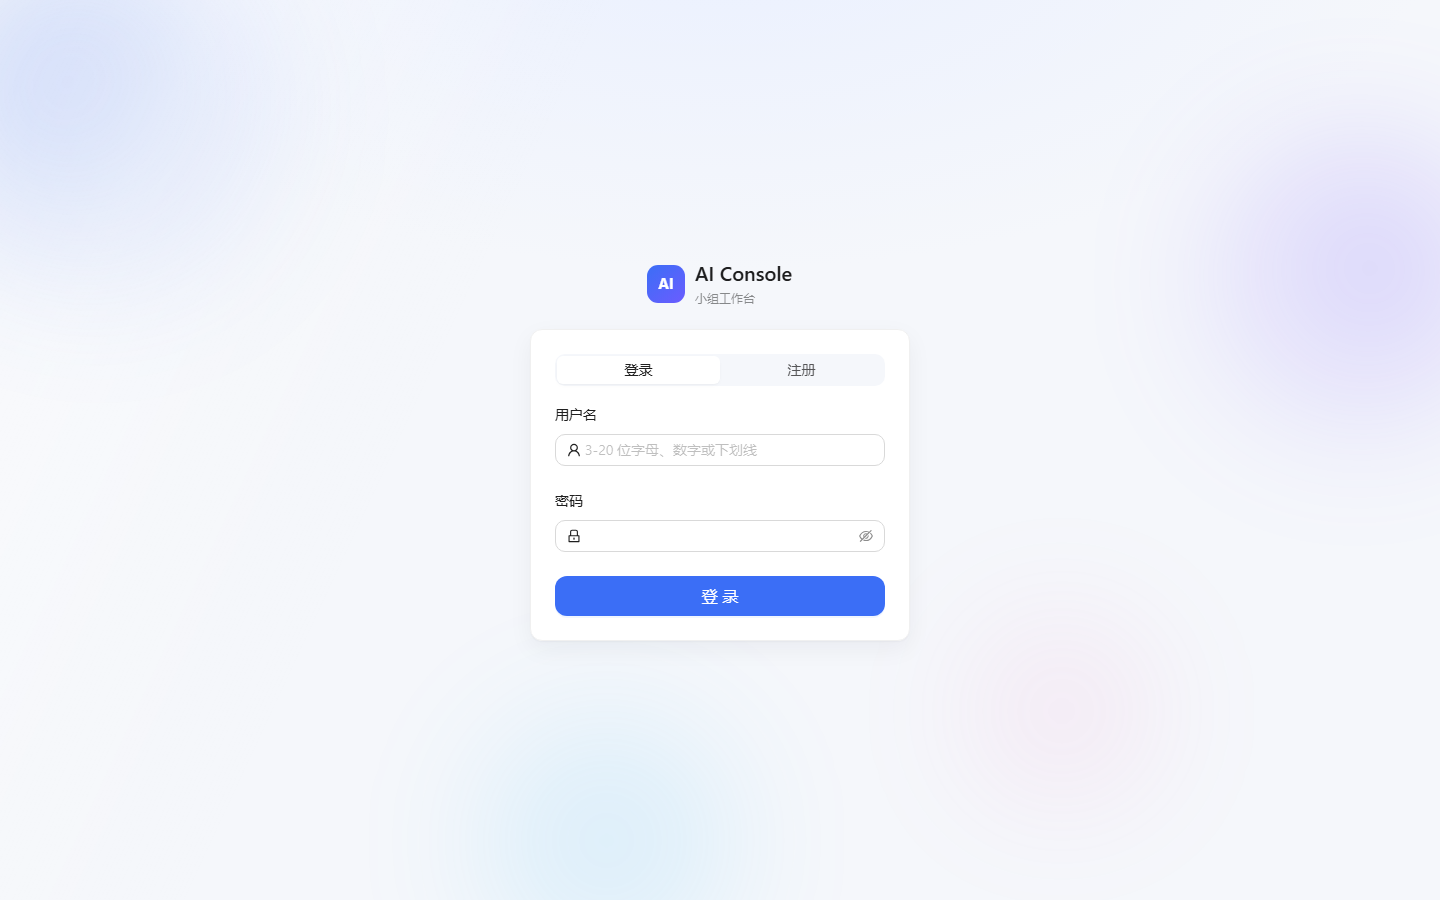
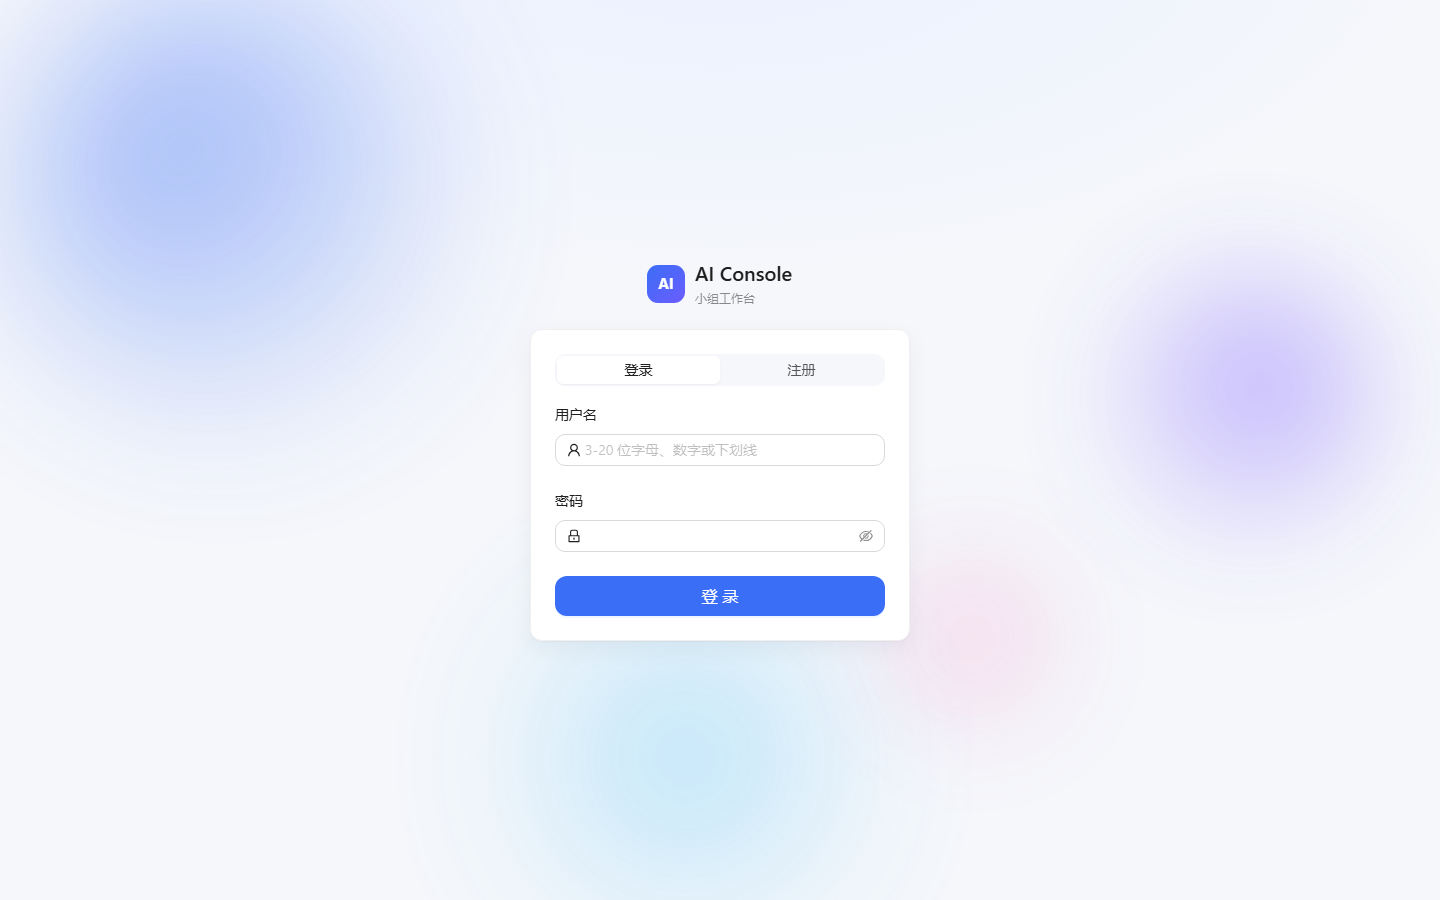
tune: 极光背景提速并加强
- 周期 26~38s → 9~13s，位移 40~60px → 100~140px
- 流光 18s → 7s
- 不透明度 0.5 → 0.68，四个色块的色彩浓度同步提高
- 移动端保留 0.55，避免小屏上过艳

Changed region(s): [[0.0312, 0.0, 0.2812, 0.4356], [0.7812, 0.3422, 0.9375, 0.56], [0.4375, 0.7156, 0.5625, 0.9022]]

diff --git a/src/styles/global.css b/src/styles/global.css
@@ -2494,7 +2494,7 @@ html[data-theme='dark'] .alert-banner {
   position: absolute;
   border-radius: 50%;
   filter: blur(64px);
-  opacity: 0.5;
+  opacity: 0.68;
   will-change: transform;
 }
 
@@ -2503,8 +2503,8 @@ html[data-theme='dark'] .alert-banner {
   height: 340px;
   left: -80px;
   top: -60px;
-  background: radial-gradient(circle at 30% 30%, rgba(59, 110, 246, 0.55), rgba(59, 110, 246, 0));
-  animation: auroraDrift1 30s ease-in-out infinite;
+  background: radial-gradient(circle at 30% 30%, rgba(59, 110, 246, 0.72), rgba(59, 110, 246, 0));
+  animation: auroraDrift1 11s ease-in-out infinite;
 }
 
 .aurora-2 {
@@ -2512,8 +2512,8 @@ html[data-theme='dark'] .alert-banner {
   height: 300px;
   right: -70px;
   top: 14%;
-  background: radial-gradient(circle at 60% 40%, rgba(124, 92, 255, 0.5), rgba(124, 92, 255, 0));
-  animation: auroraDrift2 38s ease-in-out infinite;
+  background: radial-gradient(circle at 60% 40%, rgba(124, 92, 255, 0.66), rgba(124, 92, 255, 0));
+  animation: auroraDrift2 13s ease-in-out infinite;
 }
 
 .aurora-3 {
@@ -2521,8 +2521,8 @@ html[data-theme='dark'] .alert-banner {
   height: 260px;
   left: 32%;
   bottom: -90px;
-  background: radial-gradient(circle at 50% 50%, rgba(56, 189, 248, 0.4), rgba(56, 189, 248, 0));
-  animation: auroraDrift3 26s ease-in-out infinite;
+  background: radial-gradient(circle at 50% 50%, rgba(56, 189, 248, 0.55), rgba(56, 189, 248, 0));
+  animation: auroraDrift3 9s ease-in-out infinite;
 }
 
 .aurora-4 {
@@ -2530,8 +2530,8 @@ html[data-theme='dark'] .alert-banner {
   height: 220px;
   right: 18%;
   bottom: 8%;
-  background: radial-gradient(circle at 50% 50%, rgba(244, 114, 182, 0.28), rgba(244, 114, 182, 0));
-  animation: auroraDrift4 34s ease-in-out infinite;
+  background: radial-gradient(circle at 50% 50%, rgba(244, 114, 182, 0.42), rgba(244, 114, 182, 0));
+  animation: auroraDrift4 12s ease-in-out infinite;
 }
 
 @keyframes auroraDrift1 {
@@ -2540,7 +2540,7 @@ html[data-theme='dark'] .alert-banner {
     transform: translate3d(0, 0, 0) scale(1);
   }
   50% {
-    transform: translate3d(60px, 40px, 0) scale(1.12);
+    transform: translate3d(140px, 90px, 0) scale(1.24);
   }
 }
 
@@ -2550,7 +2550,7 @@ html[data-theme='dark'] .alert-banner {
     transform: translate3d(0, 0, 0) scale(1.05);
   }
   50% {
-    transform: translate3d(-50px, 60px, 0) scale(0.95);
+    transform: translate3d(-120px, 130px, 0) scale(0.86);
   }
 }
 
@@ -2560,7 +2560,7 @@ html[data-theme='dark'] .alert-banner {
     transform: translate3d(0, 0, 0) scale(1);
   }
   50% {
-    transform: translate3d(40px, -50px, 0) scale(1.15);
+    transform: translate3d(110px, -120px, 0) scale(1.28);
   }
 }
 
@@ -2570,7 +2570,7 @@ html[data-theme='dark'] .alert-banner {
     transform: translate3d(0, 0, 0) scale(0.95);
   }
   50% {
-    transform: translate3d(-40px, -30px, 0) scale(1.1);
+    transform: translate3d(-100px, -80px, 0) scale(0.84);
   }
 }
 
@@ -2584,7 +2584,7 @@ html[data-theme='dark'] .alert-banner {
     rgba(255, 255, 255, 0.35) 50%,
     rgba(255, 255, 255, 0) 65%
   );
-  animation: sheenSweep 18s ease-in-out infinite;
+  animation: sheenSweep 7s ease-in-out infinite;
 }
 
 html[data-theme='dark'] .aurora-sheen {
@@ -2616,6 +2616,7 @@ html[data-theme='dark'] .aurora-sheen {
 @media (max-width: 767px) {
   .aurora-blob {
     filter: blur(48px);
+    opacity: 0.55;
   }
 }
 
